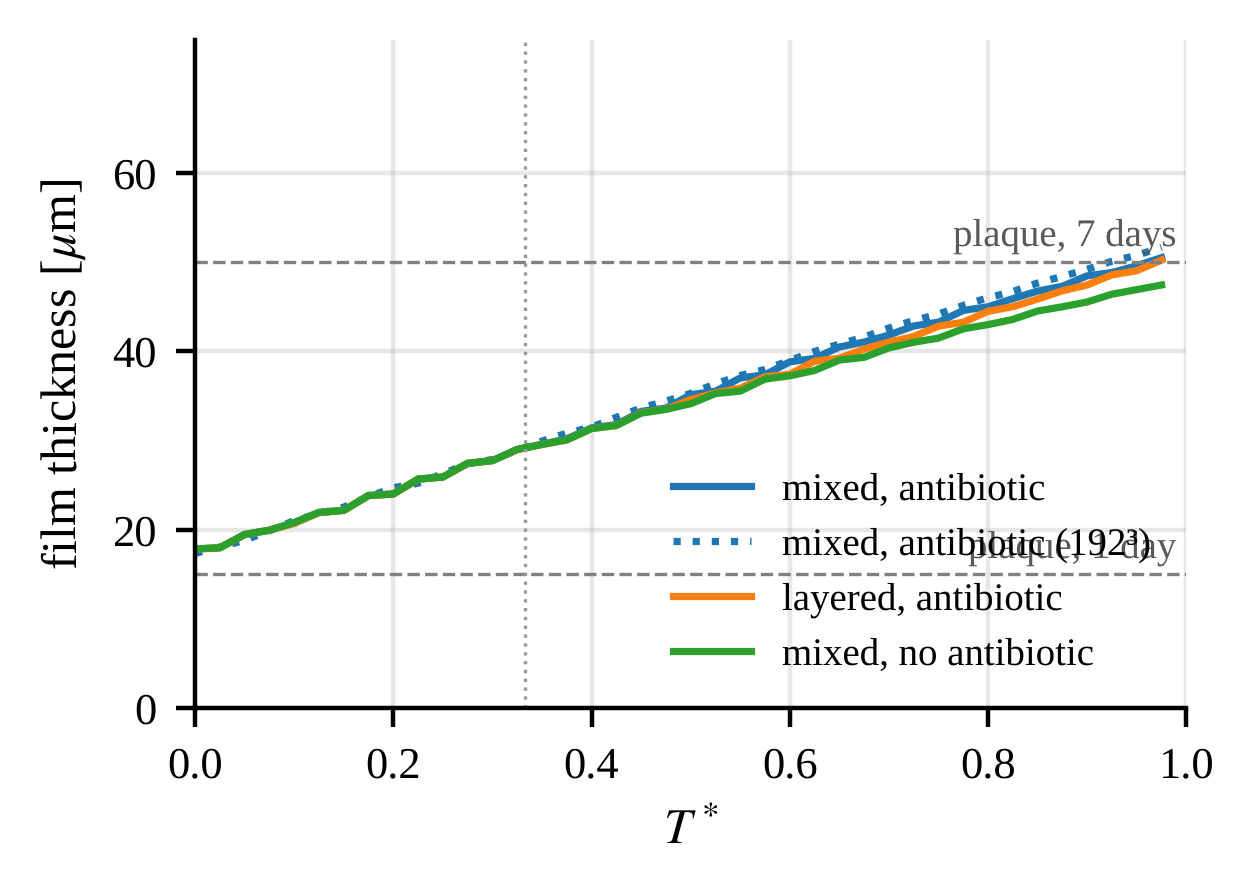
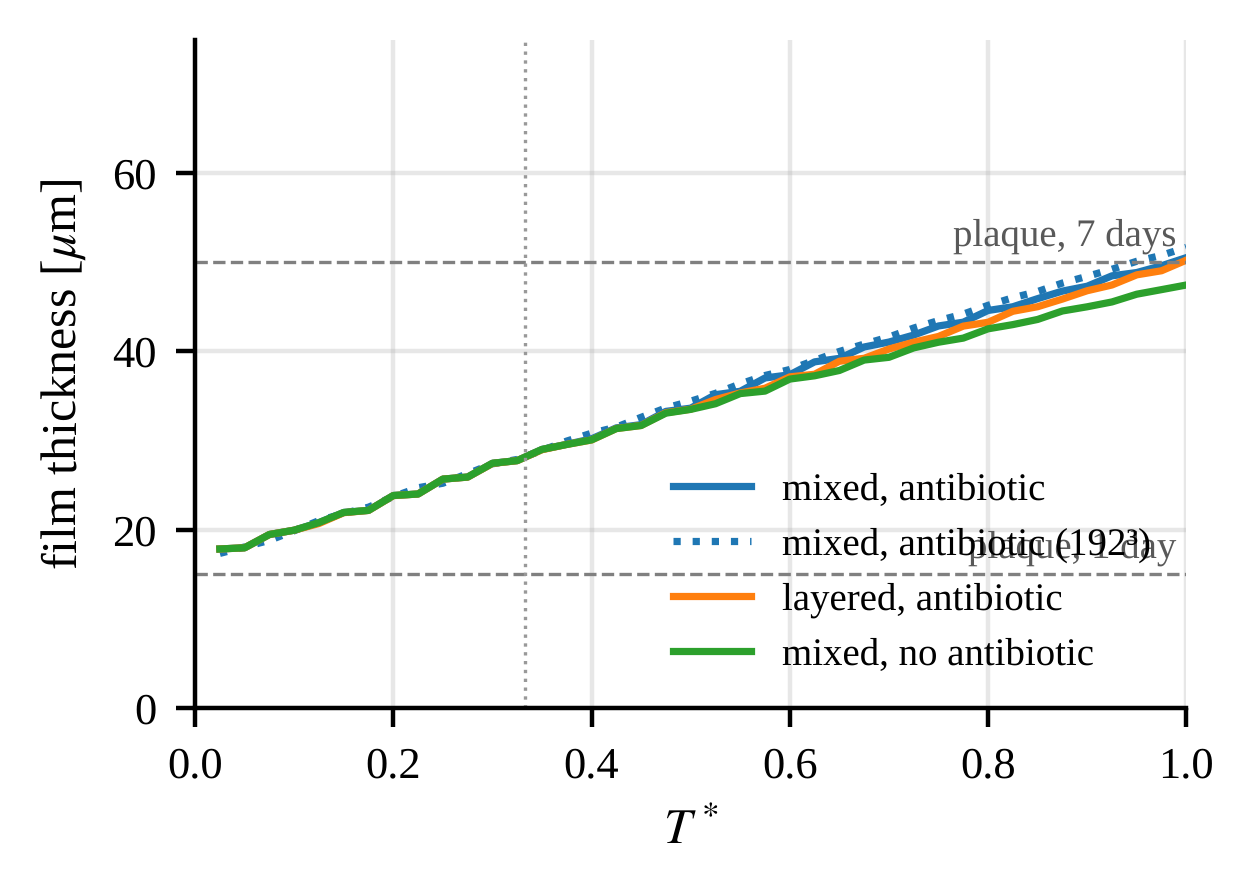
Review of the implementation: time link independent of --tend, thickness series one step late, tagged window stress files, checkpoint and provenance; notes

Changed region(s): [[0.1555, 0.2718, 0.9641, 0.6342]]

diff --git a/meetings/keio_deformation/deck_deform_ja.js b/meetings/keio_deformation/deck_deform_ja.js
@@ -129,8 +129,8 @@ function fit(s, p, x, y, w, h) {
     { x: 0.75, y: 1.2, w: 11.8, colW: [1.1, 4.6, 1.5, 1.4, 1.6, 1.6], fontFace: JP, fontSize: 12, color: INK, border: { type: 'solid', color: 'BBBBBB', pt: 0.5 }, align: 'center', valign: 'middle', rowH: 0.34 });
   cap(s, '変化は同じ刻みの K = 0 に対して（T* = 1，種子の平均，抗菌薬あり）．', 4.35, 0.75, 11.8, 10);
   bullets(s, [
-    '成長の変化（α − 1：−4.6 %）は刻みによらない．応力の変化は刻みを半分にするたびに約 2 ポイント動き，まだ収束していない．',
-    '原因は項の 1 ステップの遅れではない：応力を解き直しても，項を厳密に積分しても直らない．',
+    '成長の変化（α − 1：−4.6 %）は刻みによらない．応力の変化は外側の刻みを半分にするたびに約 2 ポイント動く．',
+    '原因（20 Nov の点検）：項の遅れではなく，もとの解き方の内側の刻み．栄養を RK4 の 1 ステップの間固定しているため，内側の刻みに 1 次の誤差があり，項がそれを増幅する．栄養を各段で解くと内側の刻みへの依存は消える（−19.3 % と −19.4 %）．',
     'K ≥ 3×10⁵ の発散は数値ではなく項そのもの：計算は回せるが，圧縮された所で φ₃D が 6〜11 まで増える．弾性エネルギーが圧縮の下で φ に下限を持たないため（柱の例と同じ）．',
     'まとめ：K ≲ 3×10⁴ は小さな補正として使える．K ≈ 10⁵ は成長は使えるが応力は目安．それ以上は φ₃D の上限かエネルギーの形の見直しが必要．'],
     { x: 0.75, y: 4.75, w: 11.8, h: 2.2, fontSize: 13 });
@@ -166,7 +166,7 @@ function fit(s, p, x, y, w, h) {
 // 8 next
 { const s = frame('7. 次にやること');
   bullets(s, [
-    'K の掃引と確認は済み（境目 K ≈ 10⁴〜3×10⁴；大きい K の発散は項そのもの）．残り：K = 10⁵ の応力がなぜ時間刻みに敏感かを調べる．',
+    'K の掃引と確認は済み（境目 K ≈ 10⁴〜3×10⁴；大きい K の発散は項そのもの；応力の刻みへの依存は内側の刻みが原因と分かった）．',
     '閉じ込めの下の正の帰還をどう扱うか：上限，体積変化の項，項の符号（エネルギーの形）を Klempt 氏と確認．歯頸部の窓でも同じ比較．',
     '実測の硬さ（kPa）で K と応力の大きさを読み替える．η_φ の目安を Klempt 氏に聞く．',
     '組成で変わる硬さ（菌種・生死で E を変える）と組み合わせる．',

diff --git a/ansys_usermat/apdl/coupled_living_consumption.py b/ansys_usermat/apdl/coupled_living_consumption.py
@@ -100,6 +100,16 @@ WALL_GRAD = sys.argv[sys.argv.index("--wall-grad") + 1] if "--wall-grad" in sys.
 assert WALL_GRAD in ("onesided", "mirror", "zero"), WALL_GRAD
 R_FRONT = FRONT * 100.0e-3 * (2.0 / 20.0e-3)  # Table 2 r = 100 um/T* on the 20 um cube -> 10 mm/T* on the 2 mm cube
 K_MONOD = 1.0
+def _commit():
+    """short hash of the checked-out commit ('' outside git), stored with every result"""
+    try:
+        import subprocess
+        return subprocess.run(["git", "rev-parse", "--short", "HEAD"], cwd=Path(__file__).resolve().parent,
+                              capture_output=True, text=True, timeout=10).stdout.strip()
+    except Exception:
+        return ""
+
+
 def _opt(name, default, cast=float):
     return cast(sys.argv[sys.argv.index(name) + 1]) if name in sys.argv else default
 
@@ -327,7 +337,9 @@ if ECO_FILE:
     CASE = read_eco_file(ECO_FILE)
 N_SP = CASE.get("n", 2)
 GROUP_A = [0, 1] if N_SP == 4 else [0]
-S_LINK = CASE["steps"] * CASE["dt"] / T_END  # 0.1: T* = 1 spans the 1000 steps (0.15 and 1500 for k26c3)
+S_LINK = CASE["steps"] * CASE["dt"]  # 0.1: T* = 1 spans the 1000 steps (0.15 and 1500 for k26c3), whatever --tend
+# (until 20 Nov 2026 this was divided by T_END, so the runs tagged _tend<T> have s = 0.1 / T: at T_END = 2 the point model
+# ran at half speed, at 0.05 twenty times too fast; they are not comparable with the T_END = 1 runs at the same T*)
 # --example layer (30 Oct 2026): a flat biofilm layer on the wall y = -BOX/2, --layer-h0 F = its thickness as a fraction
 # of BOX (cells whose centre lies below -BOX/2 + F BOX; default 0.25), phi = 1 inside, uniform composition from the
 # point-model file (start state above), nutrient held at c = 1 on the opposite wall y = +BOX/2, zero flux through the
@@ -490,6 +502,7 @@ TAG = (("" if NF == 32 else f"_nf{NF}") + (f"_front{FRONT:g}" if FRONT else "")
        + ("" if "--alpha0" not in sys.argv else f"_a{ALPHA0:g}") + ("" if "--gab" not in sys.argv else f"_gab{LAM_A2:g}")
        + ("" if "--gc" not in sys.argv else f"_gc{LAM_C2:g}") + ("" if MIX_SHARE is None else f"_share{MIX_SHARE:g}")
        + ("" if "--tab" not in sys.argv else f"_tab{T_AB:g}") + ("" if SNAP_EVERY is None else ("_snapsvm" if "--snap-stress" in sys.argv else "_snaps")) + ("" if "--nm" not in sys.argv else f"_nm{NM}") + ("_abtop" if AB_TOP else "") + ("" if not MECH_K else f"_mech{MECH_K:g}" + ("exp" if MECH_EXP else "") + (f"rf{MECH_REFRESH}" if MECH_REFRESH > 1 else "") + (f"pm{MECH_PHI_MIN:g}" if MECH_PHI_MIN else "")) + ("_clip" if PHI_CLIP else "") + (("_frontliv" + (f"ell{FRONT_ELL:g}" if FRONT_ELL else "")) if FRONT_LIVING else "")
+       + (f"_ts{TOOTH_SEED:g}" if "--tooth-seed" in sys.argv else "") + (f"_tsh{TOOTH_SEED_H:g}" if "--tooth-seed-h" in sys.argv else "")
        + ("" if not STIFF_SPECIES else "_stiff" + "-".join(f"{m:g}" for m in STIFF_SPECIES)) + ("" if TRANSIENT_D is None else f"_transc{TRANSIENT_D:g}")
        + ("" if not HOMEO else f"_homeo{HOMEO:g}" + ("" if GATE_FORM == 0 else f"f{GATE_FORM}"))
        + ("" if os.environ.get("VOID_FLOOR") is None else f"_void{float(os.environ['VOID_FLOOR']):g}")
@@ -567,7 +580,7 @@ def _one_point(g, c0, c1, a0, a1):
     def body(gg, w):
         p = dict(_P)
         p["c"] = CASE["c_star"] * ((1 - w) * c0 + w * c1)
-        p["alpha"] = (ALPHA0 or CASE["alpha_star"]) * ((1 - w) * a0 + w * a1)
+        p["alpha"] = (ALPHA0 if "--alpha0" in sys.argv or ALPHA0 else CASE["alpha_star"]) * ((1 - w) * a0 + w * a1)
         return _newton(gg, p), None
     return jax.lax.scan(body, g, FRAC)[0]
 
@@ -1162,6 +1175,13 @@ def run(example, antibiotic):
     ckpt = ROOT / "figdata" / "ckpt" / f"{example}{'_ab' if antibiotic else ''}{TAG}.npz"
     ckpt.parent.mkdir(parents=True, exist_ok=True)
     k0 = 0
+    argv_now = json.dumps(sys.argv[1:])
+    if ckpt.exists():
+        with np.load(ckpt, allow_pickle=False) as z:   # a checkpoint of another command line (or an older one) is not resumed
+            same = "argv" in z.files and str(z["argv"]) == argv_now
+        if not same:
+            print(f"[{example}, antibiotic {antibiotic}] checkpoint {ckpt.name} is from other options: ignored", flush=True)
+            ckpt.unlink()
     if ckpt.exists():
         # closed after reading: on Windows an open file cannot be replaced by the next checkpoint (WinError 5)
         with np.load(ckpt, allow_pickle=False) as z:
@@ -1396,7 +1416,7 @@ def run(example, antibiotic):
             tmp = ckpt.with_suffix(".tmp.npz")
             if os.environ.get("CKPT_INPLACE") and ckpt.exists():   # little disk: drop the old one first
                 ckpt.unlink()
-            np.savez(tmp, k_done=k, phi=phi, alpha=alpha, c=c, a=a, L=L, on=on, G=G,
+            np.savez(tmp, k_done=k, phi=phi, alpha=alpha, c=c, a=a, L=L, on=on, G=G, argv=argv_now,
                      hist=json.dumps(hist, default=float),
                      **{f"snap|{T}|{f}": v for T, dd in snaps.items() for f, v in dd.items()})
             os.replace(tmp, ckpt)
@@ -1459,7 +1479,8 @@ def main():
                                 **{f"{k}_{T}": v for T, d in SN[key].items() for k, v in d.items()})
     res = {"setting": {"field": f"{NF}^3", "point_model": "Fritsch et al. 2025 Case I, true parameters",
                        "s": S_LINK, "inner_steps_per_outer": N_SUB, "Lambda2_c": LAM_C2, "Lambda2_a": LAM_A2,
-                       "antibiotic_from": T_AB, "phi_min": PHI_MIN}, "runs": R}
+                       "antibiotic_from": T_AB, "phi_min": PHI_MIN, "argv": sys.argv[1:], "commit": _commit()},
+           "runs": R}
     if ECO_FILE:
         res["setting"].update(point_model=f"point-model file {Path(ECO_FILE).name} (c* {CASE['c_star']:g}, "
                               f"alpha* {CASE['alpha_star']:g}, {N_SP} species)", eco_steps=ECO_STEPS,

diff --git a/ansys_usermat/apdl/real_tooth_coupled.py b/ansys_usermat/apdl/real_tooth_coupled.py
@@ -21,7 +21,7 @@ von Mises stress at T* = 1/3 (antibiotic onset) and T* = 1.
 
     python ansys_usermat/apdl/real_tooth_coupled.py [--nf 80] [--box 10] [--cases tooth_ab,tooth]
         -> ansys_usermat/apdl/results/2026-10-3d/real_tooth_coupled.json (merged per run),
-           figdata/real_tooth_coupled_stress_<case>_nf<NF>_T<T>_h<ratio>.npz
+           figdata/real_tooth_coupled_stress_<case>_nf<NF>_T<T>_h<ratio>[_<tag of --opts>].npz
 
 The cervical window (7 Nov 2026, papers/coupling_paper/REAL_TOOTH_WINDOW.ja.md; the runs of coupled_living_consumption.py
 --obstacle stl --window mixed|layered --stl-scale 100 --box 30 --only window_ab): --window adds the roller faces of
@@ -78,6 +78,13 @@ def npz_path(case):
 
 def json_path(case):
     return RES / f"coupled_living_consumption_nf{NF}_{OPTS}_{case}.json"
+
+
+def stress_path(case, T, ratio):
+    """stress field of one run; with --opts the run's own tag is part of the name (until 20 Nov 2026 it was not, so the
+    mixed, layered and saliva variants of the window overwrote each other's file)"""
+    tag = "" if "--opts" not in sys.argv else "_" + OPTS.split("_tab0.333333_")[-1]
+    return ROOT / "figdata" / f"real_tooth_coupled_stress_{case}_nf{NF}_T{T}_h{ratio:g}{tag}.npz"
 
 
 def film_numbers(z, T, obst, seedA, seedB):
@@ -138,7 +145,7 @@ def stress(z, T, obst, sdf, case, ratio):
     r = RS.solve_submodel(phi, am1, h=ratio * h_f, tooth=obst, sdf=sdf, h_f=h_f, void="drop", void_thr=0.05,
                           rigid=True, tol=1e-9, verbose=True, roller=ROLLER)
     M = r["mesh"]
-    np.savez_compressed(ROOT / "figdata" / f"real_tooth_coupled_stress_{case}_nf{NF}_T{T}_h{ratio:g}.npz",
+    np.savez_compressed(stress_path(case, T, ratio),
                         vm=r["vm"].astype(np.float32), p=r["p"].astype(np.float32), active=r["active"],
                         tooth=r["tooth"], origin=M.origin, h=M.h, box=np.array(M.box))
     m = r["measures"]

diff --git a/ansys_usermat/apdl/fig_tooth_window_section.py b/ansys_usermat/apdl/fig_tooth_window_section.py
@@ -45,7 +45,13 @@ seed, edges = Z[f"seed_{T_END}"].astype(bool), Z[f"edges_{T_END}"].astype(bool)
 H = BOX / NF
 j = NF // 2                                          # the cell layer just above y = 0
 e = (-BOX / 2 + np.arange(NF + 1) * H) * UM          # cell edges in um
-st = np.load(ROOT / "figdata" / f"real_tooth_coupled_stress_{CASE}_nf{NF}_T{T_END}_h1.npz")
+# the stress file carries the run's tag (everything after _tab0.333333_); the untagged name is that of the runs
+# before 20 Nov 2026, in which the window variants overwrote each other's file
+_st = ROOT / "figdata" / f"real_tooth_coupled_stress_{CASE}_nf{NF}_T{T_END}_h1_{OPTS.split('_tab0.333333_')[-1]}.npz"
+if not _st.exists():
+    _st = ROOT / "figdata" / f"real_tooth_coupled_stress_{CASE}_nf{NF}_T{T_END}_h1.npz"
+    print("warning: untagged stress file", _st.name, "(may belong to another variant of the window; rerun real_tooth_coupled.py --opts ...)")
+st = np.load(_st)
 vm = np.where(st["active"], np.nan_to_num(st["vm"].astype(float)), np.nan) * 1e3   # mPa
 o, hs, bx = st["origin"], float(st["h"]), st["box"]
 jv = int(round((0.0 - o[1]) / hs))                   # stress elements above y = 0

diff --git a/ansys_usermat/apdl/fig_tooth_window_thickness.py b/ansys_usermat/apdl/fig_tooth_window_thickness.py
@@ -33,8 +33,7 @@ def series(nf, w, case):
     r = list(d["runs"].values())[0]
     t = np.asarray(r["t"], float)
     h = 10.0 * np.asarray(r["film"]["thickness_mean_mm"], float)   # um
-    n = min(len(t), len(h))
-    return t[:n], h[:n]
+    return t[len(t) - len(h):], h          # the film is recorded at the end of each outer step: t starts at 0, h at t[1]
 
 
 fig, ax = plt.subplots(figsize=(3.3, 2.4))

diff --git a/ansys_usermat/apdl/IMPLEMENTATION_REVIEW_2026-11-20.md b/ansys_usermat/apdl/IMPLEMENTATION_REVIEW_2026-11-20.md
@@ -1,0 +1,70 @@
+# Review of the implementation, 20 Nov 2026
+
+Question: is anything overlooked in the implementation? Three independent readings (the main path of
+`coupled_living_consumption.py` against the agreed equations; the options and scripts added since 25 Oct; the failing tests of
+the user element) and the full test suite. Result: no defect in the configuration that produced the thesis and paper numbers;
+several defects in side options, scripts and tests, fixed or listed below.
+
+## 1. Main configuration: nothing found that changes results
+
+`--fast --fortran --front 1 --gc 1 --gab 1 --alpha0 100 --tab 0.333333 --phi-min 0.001 --tvd [--limiter superbee]
+--wall-grad mirror --v2 --ansys-bc --inherit-living --transient-c 1e8 [--dtc 0.0025]`.
+
+Checked by running:
+- quarter domain against the full cube (16^3): seed means agree to 1e-13;
+- a manufactured solution with the MUSCL front term $-r\,\frac{c}{k+c}\,\mathbf n_c\cdot\nabla\phi_{3D}$: L2 error of
+  $\phi_{3D}$ 1.86e-3, 5.34e-4, 1.50e-4 on 16^3, 32^3, 64^3 (order about 1.8), nutrient second order, minmod and superbee;
+- the Fortran point model replayed over every substep of the separate and the mixed example (1.92 million steps): residual
+  of the Python twin below 1e-20 everywhere, also at the antibiotic onset;
+- one 32^3 field on a 16^3 and a 32^3 stress mesh: seed von Mises 5.360e-4 and 5.366e-4 Pa.
+
+Checked by reading: Eqs. 34 to 36 term by term, the nutrient and antibiotic solves and their held cells, the time levels
+(consumption with $\sum_i\bar\phi_i$ of the previous outer step; $c^*$, $\alpha^*$ interpolated between the two ends of the
+step), the residuals and the Jacobian of `ecology_native.f` against Klempt 2026 Eqs. 16 to 18, the seed mask, the stress
+solve.
+
+## 2. Fixed on 20 Nov
+
+| what | where | effect |
+|---|---|---|
+| `--tend T` divided the time link by T (s = 0.1/T) | `coupled_living_consumption.py`, `S_LINK` | the runs tagged `_tend0.05`, `_tend0.25`, `_tend0.5`, `_tend2` ran the point model 20, 4, 2, 0.5 times too fast; they are used only in `fig_contact_zone.py` (drafts), not in the thesis or the paper. Now s does not depend on `--tend`; those files are not comparable with T_END = 1 runs |
+| thickness of the window film plotted one outer step early | `fig_tooth_window_thickness.py` | T* at 50 um: 0.99, 0.95, 0.99 instead of 0.96, 0.92, 0.97; slopes within 0.5 um/T*; "one T* is five to six days" unchanged (`TOOTH_WINDOW.md` corrected) |
+| stress file of the window without the run's tag | `real_tooth_coupled.py`, `fig_tooth_window_section.py` | mixed, layered and saliva variants overwrote each other; the section figures of 128^3 mixed and of 64^3 may show the stress of another variant (fields differ by 0.1 to 1 %); table numbers come from tagged JSON files and are right. New runs write tagged files; the figure script warns when it falls back to an untagged one |
+| reading of the step dependence at K = 1e5 | `results/2026-10-3d/MECH_K_SWEEP.md`, section 2b | mostly the inner step of the base scheme (nutrient held over the Runge-Kutta stages), not the term |
+| a checkpoint was resumed by any run with the same tag | `coupled_living_consumption.py` | the checkpoint stores the command line and is ignored when it differs |
+| no provenance in the result files | same | `setting.argv` and `setting.commit` are stored |
+| `--tooth-seed`, `--tooth-seed-h` missing from the tag | same | in the tag when given |
+| `--alpha0 0` became the case's value in the JAX path | same | fixed |
+| 12 failing tests of the user element | `tests/conftest.py`, `p3/uel/homeostatic_test.py` | test isolation and $\phi=1$ prescribed at the barrier; no result affected; suite: 528 passed |
+
+Results of the main configuration are unchanged by these edits (16^3 before and after: identical to 1e-14, the run-to-run
+noise of the threaded solver).
+
+## 3. Not changed: deliberate, documented, or for the December read-through of the thesis
+
+- At outer step 0.0025 the point model takes 3 substeps of 8.33e-5 per outer step (1200 per T*), not 1000 of 1e-4 as the
+  thesis text says; the difference is below 1e-4 in the state.
+- The antibiotic is switched on over the first outer step that ends after $T^*=1/3$, so at step 0.025 it starts to act
+  0.008 early (seed stress within 1.5 to 2 % on 16^3); negligible at 0.0025.
+- With `--transient-c` the nutrient at the end of a step comes from the last inner solve; with d = 1e8 mm^2/T* this is
+  immaterial.
+- $\phi_{3D}$ crosses $\phi_{\min}=0.001$ far ahead of the visible front (the source $k_\alpha\alpha$ alone reaches it at
+  $T^*=1$), so the count of "colonised" cells is not a measure of the front.
+
+## 4. Open hazards (no change made)
+
+1. `ecology_native.f` reports success when Newton's method ends above its tolerance (only a singular Jacobian is flagged).
+   It did not happen in the runs checked. Returning the iteration count would make it visible; the same file is linked
+   into the ANSYS and Abaqus builds, so the change needs a rebuild there.
+2. No test runs the solver end to end, and none covers the mechanical term, growth from the living biomass, the window,
+   the obstacles, the saliva option, snapshots, checkpoints or the tag. `biofilm_ecology_hook_lin` with antibiotic (the path
+   of the main runs) has no test either; the replay described above would be a cheap one.
+3. `fig_reference_style.py` selects the limiter runs by a glob that would also take new variants of the same grid; the
+   minmod values are set by hand for that reason.
+4. Side paths with known gaps: `--lw` with `--mech-exp` or `--phi-clip`; `--transport-state` and `--budget` without the newer
+   terms; `--mech-feedback` or `--homeostatic` with `--obstacle stl` (the tooth is treated as void in that stress solve);
+   `--stiff-species` does not check the number of moduli; a 32^3 window run cannot be post-processed (no `nf` in its name).
+5. The crown example (`--obstacle stl --box 10`): the signed distance has the wrong sign above the cap, so the start ring
+   can also place biofilm inside the crown. The paper uses the cervical window instead.
+6. Stale checkpoints of killed runs may lie in `figdata/ckpt/` on each machine; with the check above they are ignored and
+   removed when a run with other options meets them.

diff --git a/ansys_usermat/apdl/results/2026-10-3d/MECH_K_SWEEP.md b/ansys_usermat/apdl/results/2026-10-3d/MECH_K_SWEEP.md
@@ -64,6 +64,37 @@ What this shows:
 4. **Clipping phi_3D to [0, 1] removes the runaway but changes the answer** (K = 1e5: stress -30 to -35 % instead of -21 to
    -26 %) and at 3e5 the result still depends strongly on the step. It is a change of the model, not a fix.
 
+## 2b. Where the step dependence comes from (code review of 20 Nov)
+
+Point 2 above ("not converged in the outer step") is corrected here. Halving the outer step also halves the inner step,
+because the number of Runge-Kutta steps per outer step is rounded up (32^3: 5, 3, 2 inner steps at outer step 0.025, 0.0125,
+0.00625), and the nutrient is solved once per inner step and held over its four stages. Seed von Mises in 1e-4 Pa, 32^3,
+superbee, separate example with antibiotic:
+
+| variant | K = 0 | K = 1e5 | change |
+|---|---|---|---|
+| outer step 0.025 | 5.481 | 4.076 | -25.6 % |
+| outer step 0.0125 | 5.598 | 4.304 | -23.1 % |
+| outer step 0.025, twice the inner steps | 5.546 | 4.291 | -22.6 % |
+| outer step 0.025, four times the inner steps | 5.586 | 4.411 | -21.0 % |
+| nutrient solved at every Runge-Kutta stage, outer step 0.025 | 5.638 | 4.552 | -19.3 % |
+| same, twice the inner steps | 5.633 | 4.541 | -19.4 % |
+| same, outer step 0.0125 | 5.731 | 4.731 | -17.4 % |
+| minmod, outer step 0.025 | 5.360 | 4.910 | -8.4 % |
+| minmod, outer step 0.025, twice the inner steps | 5.420 | 5.106 | -5.8 % |
+
+- Most of the dependence is the inner step: with the nutrient solved at every stage it disappears (-19.3 against -19.4 %),
+  and the K = 0 stress itself moves by +2.9 %. The term amplifies an error of the base scheme that is first order in the
+  inner step; it is not a property of the term.
+- About 1.9 points per halving of the outer step remain. They are there at K = 0 too (+1.6 % per halving) and come from the
+  living volume fraction and the colonisation being one outer step late, not from the lag of $\mathbf I:\mathbf C_e-3$
+  (solving the stress more often moves the value the other way).
+- The fine grids of the sweep are less exposed, because the inner step shrinks with the cell size.
+- Two further cautions for the size of the effect: on 32^3 it depends on the limiter (superbee -25.6 %, minmod -8.4 %), and
+  the coefficient of the term is constant on each element of the 16^3 stress mesh while the field grid is refined, so the
+  stress change is not expected to converge cleanly with the field grid alone.
+- `--mech-refresh N` solves min(N, inner steps) times per outer step; with one inner step it does nothing.
+
 ## 3. Reading
 
 - Up to K of about 3e4 the term is a small, well-behaved correction (below 3.5 % in alpha - 1, below 3 % in the stress).

diff --git a/ansys_usermat/apdl/results/2026-10-3d/TOOTH_WINDOW.md b/ansys_usermat/apdl/results/2026-10-3d/TOOTH_WINDOW.md
@@ -264,12 +264,16 @@ the asymptotic range. 256^3 asked of fifa (CLOUD_TO_FIFA part 11, rewritten).
 (the 20 um start film on the voxel wall) and grows nearly linearly. In situ plaque on enamel: about 15 um after one day and
 50 um after seven (Al-Ahmad et al. 2007), i.e. about 5.8 um per day.
 
+(Corrected 20 Nov 2026: the thickness is recorded at the end of each outer step and was plotted one step, 0.025 T*,
+too early; the slopes change by at most 0.5 um/T*, the times at 50 um by about 0.03. The first recorded value, 18 um, is at
+T* = 0.025.)
+
 | run (variant 2) | slope T* = 0.5-1 [um/T*] | days per T* | T* at 50 um | thickness at T* = 1 [um] |
 |---|---|---|---|---|
-| 128^3 mixed, antibiotic | 32.5 | 5.6 | 0.96 | 50.5 |
-| 192^3 mixed, antibiotic | 34.3 | 5.9 | 0.92 | 51.7 |
-| 128^3 layered, antibiotic | 32.8 | 5.6 | 0.97 | 50.2 |
-| 128^3 mixed, no antibiotic | 28.0 | 4.8 | 0.98 | 47.4 |
+| 128^3 mixed, antibiotic | 33.0 | 5.7 | 0.99 | 50.5 |
+| 192^3 mixed, antibiotic | 34.4 | 5.9 | 0.95 | 51.7 |
+| 128^3 layered, antibiotic | 32.9 | 5.6 | 0.99 | 50.2 |
+| 128^3 mixed, no antibiotic | 28.1 | 4.8 | not reached (47 um at T* = 1) | 47.4 |
 
 Reading: with the constants of Klempt et al. 2024 at their own size, the film grows like an in situ plaque if one T* is
 about five to six days; the film of 18 um at the start then corresponds to about day 1.5 and the end (50 um) to about

diff --git a/thesis/REVIEW_2026-11-13.md b/thesis/REVIEW_2026-11-13.md
@@ -150,3 +150,8 @@ Further points to confirm (Ch. 4, 6):
 16. Not changed (numbers not verifiable): beta percentages "within 11 % / 16 %" (ch4 ~785); "-13 %" for delta = 0.5 (values give -12.2 %); Lambda = 4 in step 1 of the earlier one-way computations.
 17. Figures not regenerated: units on the axes of the closed-form figure; legend of the stability figures; panel titles inside some figures.
 Also changed outside the thesis: colloquium slide 13 and notes, the paper sentence on the element (now "agrees with the second-order schemes within its own uncertainty"), `thesis/DISCUSSION_COLLOQUIUM.md`.
+
+Added 20 Nov (review of the implementation, `ansys_usermat/apdl/IMPLEMENTATION_REVIEW_2026-11-20.md`; the thesis is not changed):
+
+18. Algorithm of Chapter 4: at outer step 0.0025 the point model takes 3 substeps of 8.33e-5 per outer step (1200 per T*), not $s\,\Delta t/10^{-4}=2.5$; one clause would say that the number is rounded up.
+19. The antibiotic is switched on over the first outer step that ends after $T^*=1/3$ (0.008 early at step 0.025); part of the dependence on the outer step that the chapter already reports.
